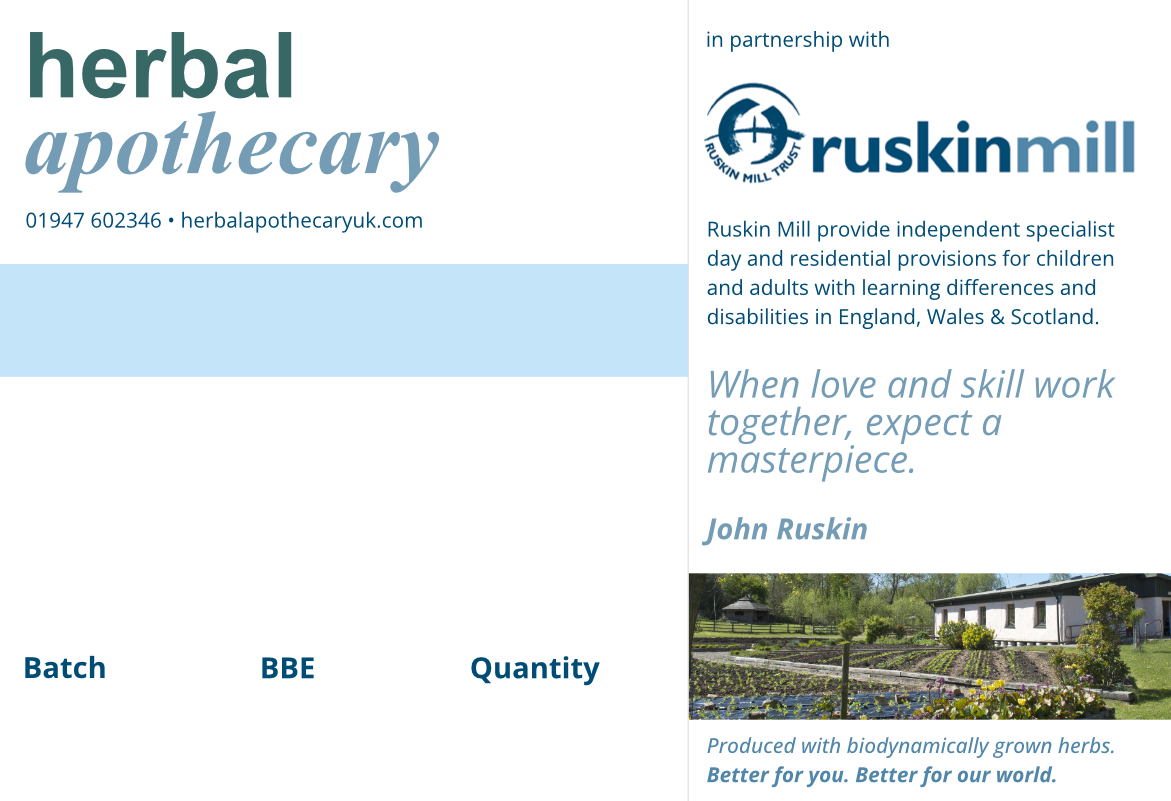
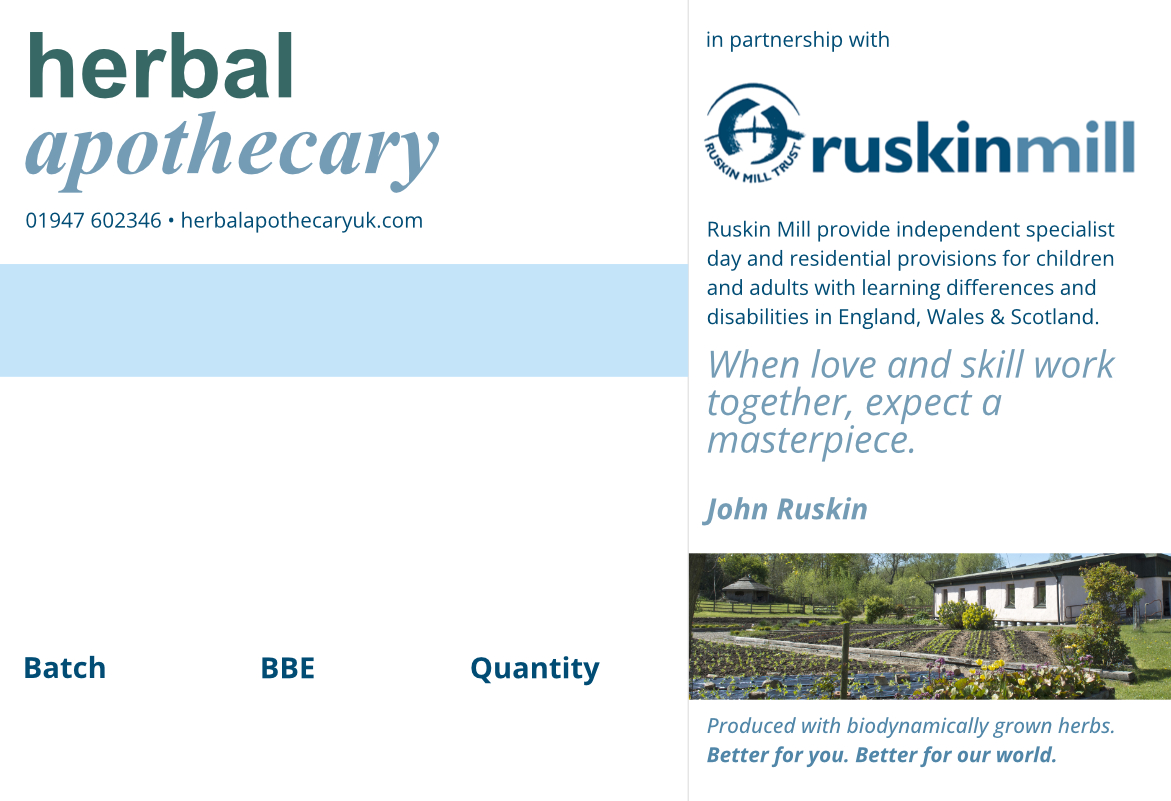
Label Tweaks

Changed region(s): [[0.5841, 0.6242, 1.0, 0.9988], [0.5841, 0.437, 0.953, 0.593]]

diff --git a/perch/addons/apps/natures_laboratory/modes/labels/index.pre.php b/perch/addons/apps/natures_laboratory/modes/labels/index.pre.php
@@ -79,54 +79,54 @@ error_reporting(E_ALL);
 	
 						if($remainder == 0){
 							
-							$this->Image($labelBg,6,14,99.1,67.8);
+							$this->Image($labelBg,5,14,99.1,67.8);
 						    $this->Image($labelBg,105.1,14,99.1,67.8);
-						    $this->Image($labelBg,6,81.8,99.1,67.8);
+						    $this->Image($labelBg,5,81.8,99.1,67.8);
 						    $this->Image($labelBg,105.1,81.8,99.1,67.8);
-						    $this->Image($labelBg,6,149.6,99.1,67.8);
+						    $this->Image($labelBg,5,149.6,99.1,67.8);
 						    $this->Image($labelBg,105.1,149.6,99.1,67.8);
-						    $this->Image($labelBg,6,217.4,99.1,67.8);
+						    $this->Image($labelBg,5,217.4,99.1,67.8);
 						    $this->Image($labelBg,105.1,217.4,99.1,67.8);
 							
 						}elseif($remainder == 1){
 							
-							$this->Image($labelBg,6,14,99.1,67.8);
+							$this->Image($labelBg,5,14,99.1,67.8);
 						    $this->Image($labelBg,105.1,14,99.1,67.8);
-						    $this->Image($labelBg,6,81.8,99.1,67.8);
+						    $this->Image($labelBg,5,81.8,99.1,67.8);
 						    $this->Image($labelBg,105.1,81.8,99.1,67.8);
-						    $this->Image($labelBg,6,149.6,99.1,67.8);
+						    $this->Image($labelBg,5,149.6,99.1,67.8);
 						    $this->Image($labelBg,105.1,149.6,99.1,67.8);
-						    $this->Image($labelBg,6,217.4,99.1,67.8);
+						    $this->Image($labelBg,5,217.4,99.1,67.8);
 							
 						}elseif($remainder == 2){
 							
-							$this->Image($labelBg,6,14,99.1,67.8);
+							$this->Image($labelBg,5,14,99.1,67.8);
 						    $this->Image($labelBg,105.1,14,99.1,67.8);
-						    $this->Image($labelBg,6,81.8,99.1,67.8);
+						    $this->Image($labelBg,5,81.8,99.1,67.8);
 						    $this->Image($labelBg,105.1,81.8,99.1,67.8);
-						    $this->Image($labelBg,6,149.6,99.1,67.8);
+						    $this->Image($labelBg,5,149.6,99.1,67.8);
 						    $this->Image($labelBg,105.1,149.6,99.1,67.8);
 						
 						}elseif($remainder == 3){
 							
-							$this->Image($labelBg,6,14,99.1,67.8);
+							$this->Image($labelBg,5,14,99.1,67.8);
 						    $this->Image($labelBg,105.1,14,99.1,67.8);
-						    $this->Image($labelBg,6,81.8,99.1,67.8);
+						    $this->Image($labelBg,5,81.8,99.1,67.8);
 						    $this->Image($labelBg,105.1,81.8,99.1,67.8);
-						    $this->Image($labelBg,6,149.6,99.1,67.8);
+						    $this->Image($labelBg,5,149.6,99.1,67.8);
 							
 						}elseif($remainder == 4){
 							
-							$this->Image($labelBg,6,14,99.1,67.8);
+							$this->Image($labelBg,5,14,99.1,67.8);
 						    $this->Image($labelBg,105.1,14,99.1,67.8);
-						    $this->Image($labelBg,6,81.8,99.1,67.8);
+						    $this->Image($labelBg,5,81.8,99.1,67.8);
 						    $this->Image($labelBg,105.1,81.8,99.1,67.8);
 							
 						}elseif($remainder == 5){
 							
-							$this->Image($labelBg,6,14,99.1,67.8);
+							$this->Image($labelBg,5,14,99.1,67.8);
 						    $this->Image($labelBg,105.1,14,99.1,67.8);
-						    $this->Image($labelBg,6,81.8,99.1,67.8);
+						    $this->Image($labelBg,5,81.8,99.1,67.8);
 							
 						}elseif($remainder == 6){
 							
@@ -142,46 +142,46 @@ error_reporting(E_ALL);
 					}else if($page == 1){
 					
 						if($start==1){
-						    if($tL>0){$this->Image($labelBg,6,14,99.1,67.8);}
+						    if($tL>0){$this->Image($labelBg,5,14,99.1,67.8);}
 						    if($tL>1){$this->Image($labelBg,105.1,14,99.1,67.8);}
-						    if($tL>2){$this->Image($labelBg,6,81.8,99.1,67.8);}
+						    if($tL>2){$this->Image($labelBg,5,81.8,99.1,67.8);}
 						    if($tL>3){$this->Image($labelBg,105.1,81.8,99.1,67.8);}
-						    if($tL>4){$this->Image($labelBg,6,149.6,99.1,67.8);}
+						    if($tL>4){$this->Image($labelBg,5,149.6,99.1,67.8);}
 						    if($tL>5){$this->Image($labelBg,105.1,149.6,99.1,67.8);}
-						    if($tL>6){$this->Image($labelBg,6,217.4,99.1,67.8);}
+						    if($tL>6){$this->Image($labelBg,5,217.4,99.1,67.8);}
 						    if($tL>7){$this->Image($labelBg,105.1,217.4,99.1,67.8);}
 						}elseif($start==2){
 						    if($tL>0){$this->Image($labelBg,105.1,14,99.1,67.8);}
-						    if($tL>1){$this->Image($labelBg,6,81.8,99.1,67.8);}
+						    if($tL>1){$this->Image($labelBg,5,81.8,99.1,67.8);}
 						    if($tL>2){$this->Image($labelBg,105.1,81.8,99.1,67.8);}
-						    if($tL>3){$this->Image($labelBg,6,149.6,99.1,67.8);}
+						    if($tL>3){$this->Image($labelBg,5,149.6,99.1,67.8);}
 						    if($tL>4){$this->Image($labelBg,105.1,149.6,99.1,67.8);}
-						    if($tL>5){$this->Image($labelBg,6,217.4,99.1,67.8);}
+						    if($tL>5){$this->Image($labelBg,5,217.4,99.1,67.8);}
 						    if($tL>6){$this->Image($labelBg,105.1,217.4,99.1,67.8);}
 						}elseif($start==3){
-						    if($tL>0){$this->Image($labelBg,6,81.8,99.1,67.8);}
+						    if($tL>0){$this->Image($labelBg,5,81.8,99.1,67.8);}
 						    if($tL>1){$this->Image($labelBg,105.1,81.8,99.1,67.8);}
-						    if($tL>2){$this->Image($labelBg,6,149.6,99.1,67.8);}
+						    if($tL>2){$this->Image($labelBg,5,149.6,99.1,67.8);}
 						    if($tL>3){$this->Image($labelBg,105.1,149.6,99.1,67.8);}
-						    if($tL>4){$this->Image($labelBg,6,217.4,99.1,67.8);}
+						    if($tL>4){$this->Image($labelBg,5,217.4,99.1,67.8);}
 						    if($tL>5){$this->Image($labelBg,105.1,217.4,99.1,67.8);}
 						}elseif($start==4){
 						    if($tL>0){$this->Image($labelBg,105.1,81.8,99.1,67.8);}
-						    if($tL>1){$this->Image($labelBg,6,149.6,99.1,67.8);}
+						    if($tL>1){$this->Image($labelBg,5,149.6,99.1,67.8);}
 						    if($tL>2){$this->Image($labelBg,105.1,149.6,99.1,67.8);}
-						    if($tL>3){$this->Image($labelBg,6,217.4,99.1,67.8);}
+						    if($tL>3){$this->Image($labelBg,5,217.4,99.1,67.8);}
 						    if($tL>4){$this->Image($labelBg,105.1,217.4,99.1,67.8);}
 						}elseif($start==5){
-						    if($tL>0){$this->Image($labelBg,6,149.6,99.1,67.8);}
+						    if($tL>0){$this->Image($labelBg,5,149.6,99.1,67.8);}
 						    if($tL>1){$this->Image($labelBg,105.1,149.6,99.1,67.8);}
-						    if($tL>2){$this->Image($labelBg,6,217.4,99.1,67.8);}
+						    if($tL>2){$this->Image($labelBg,5,217.4,99.1,67.8);}
 						    if($tL>3){$this->Image($labelBg,105.1,217.4,99.1,67.8);}
 						}elseif($start==6){
 						    if($tL>0){$this->Image($labelBg,105.1,149.6,99.1,67.8);}
-						    if($tL>1){$this->Image($labelBg,6,217.4,99.1,67.8);}
+						    if($tL>1){$this->Image($labelBg,5,217.4,99.1,67.8);}
 						    if($tL>2){$this->Image($labelBg,105.1,217.4,99.1,67.8);}
 						}elseif($start==7){
-						    if($tL>0){$this->Image($labelBg,6,217.4,99.1,67.8);}
+						    if($tL>0){$this->Image($labelBg,5,217.4,99.1,67.8);}
 		 				    if($tL>1){$this->Image($labelBg,105.1,217.4,99.1,67.8);}
 						}elseif($start==8){
 						    if($tL>0){$this->Image($labelBg,105.1,217.4,99.1,67.8);}
@@ -301,9 +301,9 @@ error_reporting(E_ALL);
 					    	$imgX = 144;
 					    	$imgX2 = 152;
 					    }else{
-						    $x = 7;
-						    $imgX = 45;
-						    $imgX2 = 52;
+						    $x = 6;
+						    $imgX = 44;
+						    $imgX2 = 51;
 					    }
 					    
 					    $first = array(44,55,70);
